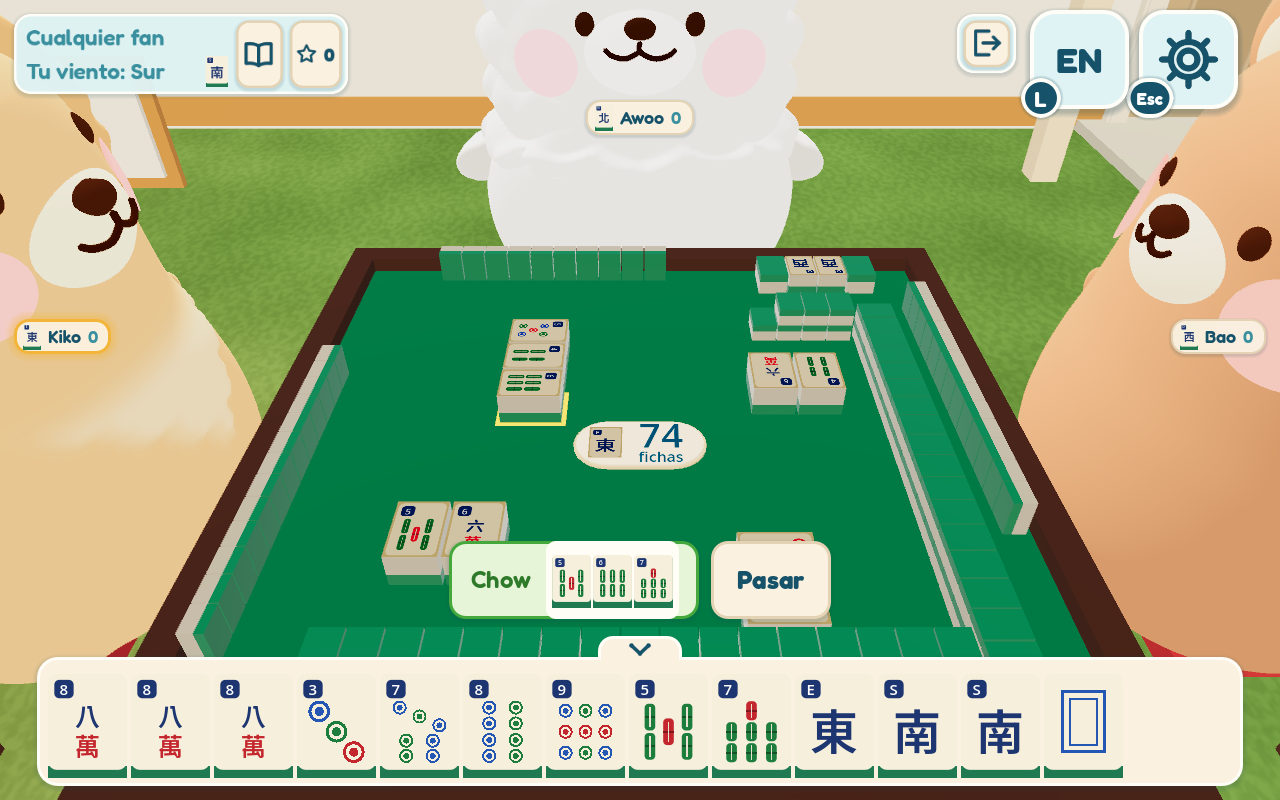
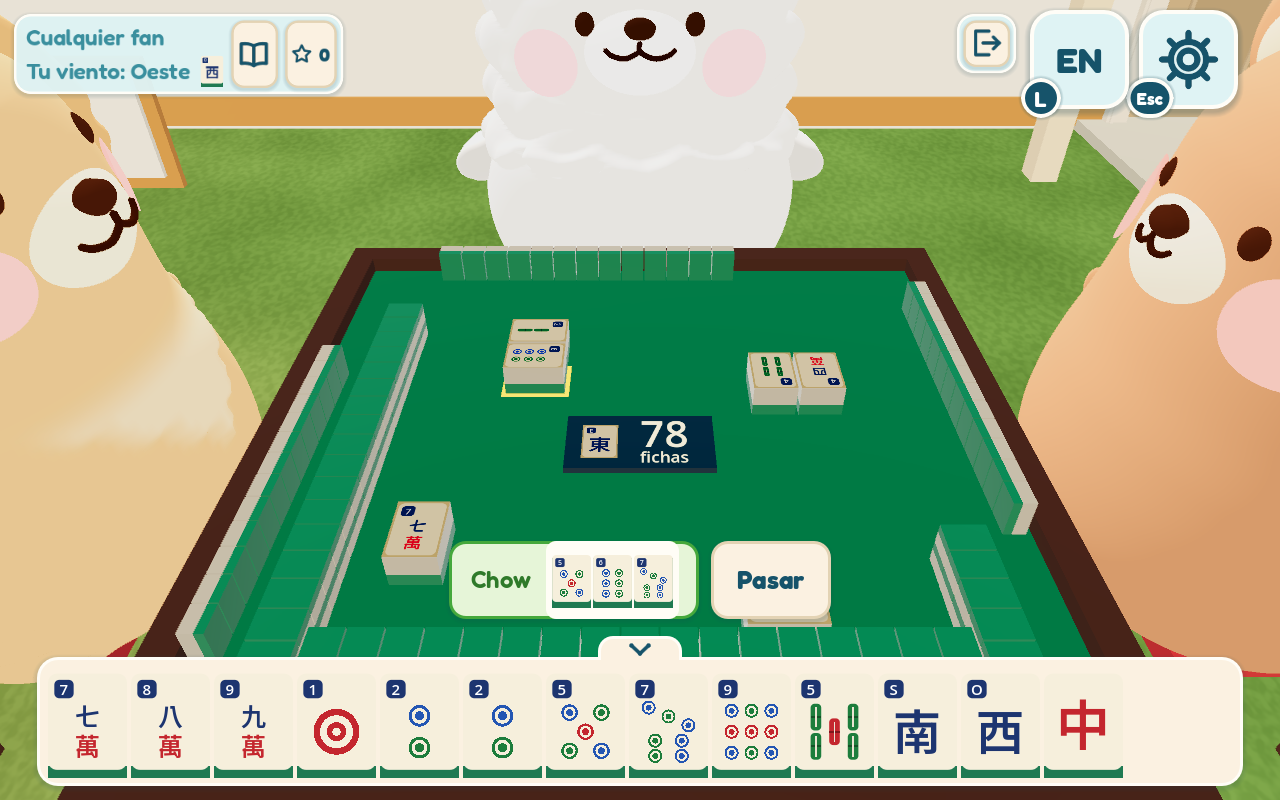
Mahjong: nameplates and cream counter removed again (user, 25 Nov); docs and renders
mahjong_ui_polish without their checks: 10 checks, 0 failures at 1280x800;
the 844x390 renders still show the removed nameplates.

diff --git a/BonAdventure/docs/guides/MAHJONG.md b/BonAdventure/docs/guides/MAHJONG.md
@@ -30,7 +30,7 @@ For the minigame table and the shared systems, see [MINIGAMES.md](MINIGAMES.md#b
     icons and margins scale with the window like its text (before, its icons had fixed pixel
     sizes), and the card is scaled down to at most 19 % of the screen's height (`INFO_MAX_HEIGHT`),
     so on a phone (844×390) it stays clear of the far discard row (user: "fit on phone").
-    *Superseded 24 Nov 2026 by the UI polish below (status card about 25 % smaller, counter 20 %).*
+    *Superseded 24 Nov 2026 by the UI polish below (status card about 25 % smaller).*
   - **UI polish (24 Nov 2026, user: more cohesive, less cluttered, same look and gameplay).**
     One look for every part of `mahjong_panel.gd`: thin 3 px outlines (`LINE`), light shadows
     (`SOFT_SHADOW`), corner radii 20 for cards and 16 for buttons, gentle motion (a small lift
@@ -46,13 +46,9 @@ For the minigame table and the shared systems, see [MINIGAMES.md](MINIGAMES.md#b
       words (the primary choice), their tiles in a light well of their own at the right; Pass
       and Keep playing cream with a pale outline (secondary); Mahjong! stays gold with red words
       and its pulse (the main choice) in the same shape.
-    - **Nameplates**: a small cream plate by each opponent with their seat-wind tile, name and
-      points this visit, at their chest on screen (`NAMEPLATE_OUT`, `NAMEPLATE_HEIGHT` in
-      `mahjong_session.gd`, projected through the game camera), kept clear of the top cards.
-      The plate of the player whose turn it is gets a soft gold outline and glow and one small
-      bump (`set_turn()`); nothing keeps moving.
-    - **Centre counter**: a small cream rounded plaque with dark teal words and a slightly darker
-      lip (was a dark navy box), drawn 20 % larger than its model (`COUNTER_GROWTH`, was 30 %).
+    - **Reverted 25 Nov 2026 (user):** the opponents' nameplates and the cream centre counter
+      plaque from the same polish were removed; the counter is the dark console again (30 %
+      larger, `COUNTER_GROWTH` 1.3) and there are no nameplates (see git history, `11fc0121`).
   - **Top of the screen clear for Awoo (16 Nov 2026, user: "make the top status bar easy to read
     but not block awoo's face").** The status bar is split in two:
     - the status card (top left) keeps the mode, your wind, the book and the ★;
@@ -249,7 +245,7 @@ Simulated results with four NPC players:
    corner badge, name and points; ★ or its round ✕ (top right) closes it, and play goes on
    meanwhile. Since 11 Nov 2026 (user) neither scoreboard has a "Points this visit" heading: the
    faces and numbers say it.
-   The tiles left and the round wind are on a cream plaque (24 Nov 2026; a dark console before) in the middle of the table
+   The tiles left and the round wind are on a dark console in the middle of the table
    (`mahjong_view.gd` `show_counter()`): the round wind as a face-up tile, the number and the word
    "fichas" in the language being learned, tilted toward the player's seat.
    There is no message line over the table at all (user, 9 Nov 2026: "remove this sentence and everything shown in this box"): no "Awoo's turn…", no claim prompt, no "too few fan" note; the buttons and call words say what happens.

diff --git a/BonAdventure/docs/game/README.md b/BonAdventure/docs/game/README.md
@@ -58,7 +58,7 @@ be forgotten come back.
 | [Feel the Clues](minigames.md#feel-the-clues) | Police evidence room | Yes | 6 Nov | 8 Nov (redesign) |
 | [Desk Dash](minigames.md#desk-dash) | School classroom | Chinese measure words only | 7 Nov | 23 Nov (card translated by holding the HUD's EN button) |
 | [Mystery Doors](minigames.md#mystery-doors) | Mystery House | Yes | 9 Nov | 10 Nov |
-| [Mahjong Club](minigames.md#mahjong-club) | Table in front of the home | No | 9 Nov | 24 Nov (UI polish: nameplates, soft call buttons, cream counter, pull tab; hide the hand to see your tiles; 23 Nov: carry on an unfinished game; one EN button, top right; Mahjong! still offered after a pung) |
+| [Mahjong Club](minigames.md#mahjong-club) | Table in front of the home | No | 9 Nov | 25 Nov (nameplates and cream counter removed; 24 Nov: UI polish, soft call buttons, pull tab; hide the hand to see your tiles; 23 Nov: carry on an unfinished game; one EN button, top right; Mahjong! still offered after a pung) |
 | [Radar Patrol](minigames.md#radar-patrol) | Airport control tower | No (pastime) | 9 Nov | 15 Nov (easier taps) |
 | [Wire It Up!](minigames.md#wire-it-up) | Electrical box at the home | No (pastime) | 9 Nov | 9 Nov |
 | [Library Helper](minigames.md#library-helper) | Library | Yes | 13 Nov | 21 Nov (book close-up on pick-up, bigger right-shelf burst, thanks with a zoom on Rosa, results card, new cart after walking away) |

diff --git a/BonAdventure/docs/game/minigames.md b/BonAdventure/docs/game/minigames.md
@@ -355,12 +355,12 @@ changes no button size; the journal and ▶ buttons hide under the lesson card (
 first asks whether to carry on, with the same hand and points (23 Nov,
 [screenshots](../evidence/mahjong-memory-20261123/)). A pull tab on the hand tray slides it away to
 see your own tiles on the table (24 Nov, [screenshots](../evidence/mahjong-hand-toggle-20261124/)).
+UI polish (24 Nov): a smaller status card and soft call buttons with their tiles apart
+([screenshots](../evidence/mahjong-ui-polish-20261124/); the nameplates and cream counter shown
+there were removed again on 25 Nov).
 [Guide](../guides/MAHJONG.md)
 
 | Learning card | |
-UI polish (24 Nov): a smaller status card, soft call buttons with their tiles apart, nameplates by
-the opponents (lit on their turn) and a cream table counter
-([screenshots](../evidence/mahjong-ui-polish-20261124/)).
 | --- | --- |
 | Purpose | Hear and use game language (calls, winds, hand names) while playing; a pastime. |
 | Words | [Generated list](words.md#mahjong-club) |

diff --git a/BonAdventure/docs/guides/FINAL_VERIFICATION.md b/BonAdventure/docs/guides/FINAL_VERIFICATION.md
@@ -6057,6 +6057,9 @@ checks passed there. The first 844×390 run hung on its first screenshot while o
 Godot windows were open; it was stopped and run once more. `mahjong_hand_toggle` (updated for the
 centred pull tab and its slide): 9 checks, 0 failures, headless. `mahjong_table` and
 `mahjong_memory` were not re-run.
+25 Nov 2026: nameplates and the cream counter reverted (user). `mahjong_ui_polish` without their
+checks: 10 checks, 0 failures at 1280×800 with graphics; the 1280×800 renders were redone. The
+844×390 renders still show the removed nameplates and plaque.
 
 **Follow-up (user requests, same day).** Changes:
 - Awoo's chair moved back (home step `mahjong_chair_back`).
